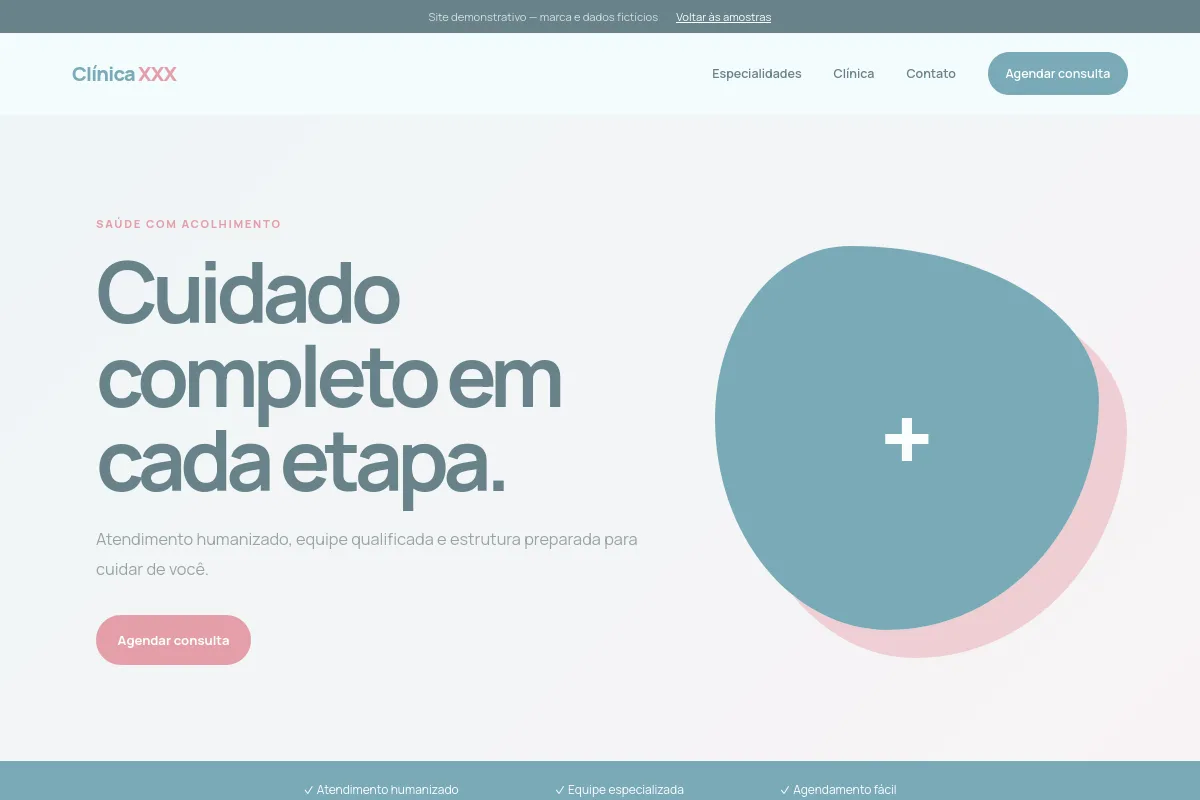
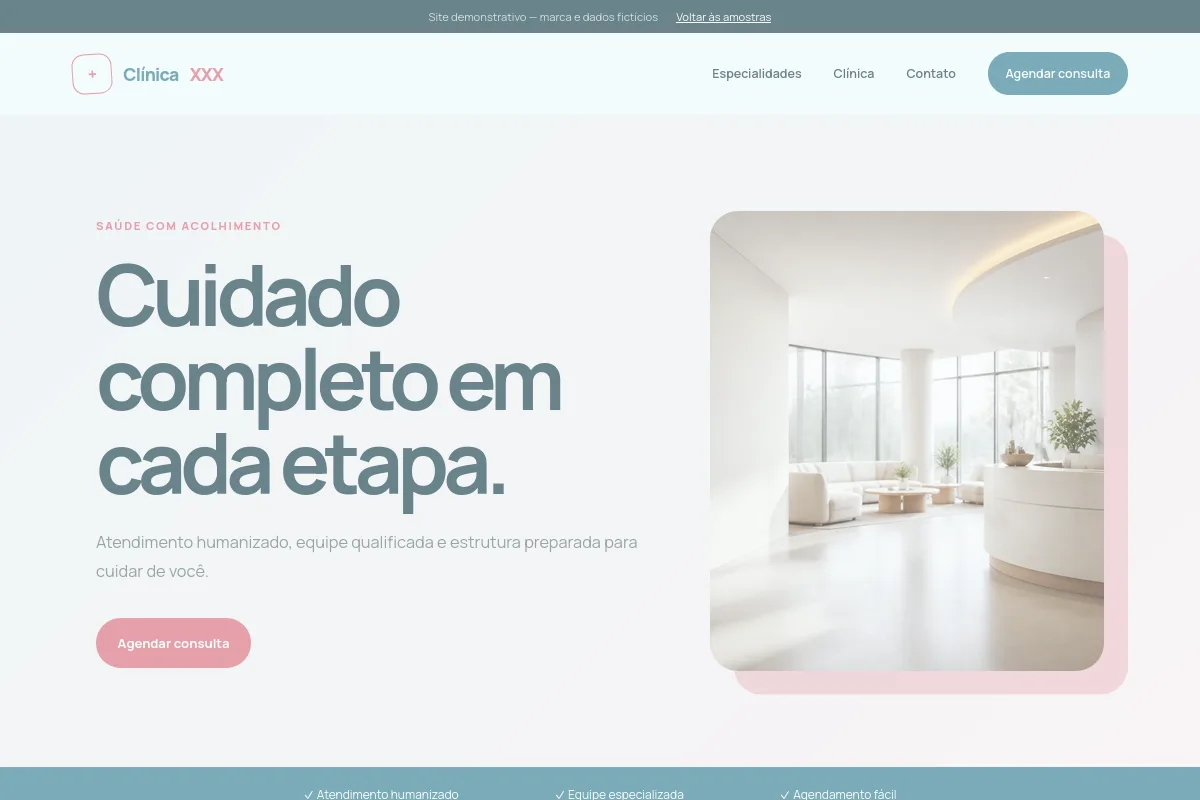
feat: add rich imagery and custom demo branding

diff --git a/src/css/demo-negocio.css b/src/css/demo-negocio.css
@@ -6,7 +6,8 @@ a { color: inherit; text-decoration: none; }
 .aviso { padding: .55rem 5vw; color: rgba(255,255,255,.75); background: var(--tinta); text-align: center; font-size: .7rem; }
 .aviso a { color: white; margin-left: 1rem; text-decoration: underline; }
 header { height: 82px; padding: 0 6vw; display: flex; align-items: center; justify-content: space-between; background: var(--claro); }
-.logo { color: var(--cor); font-size: 1.25rem; font-weight: 800; letter-spacing: -.04em; }
+.logo { display: inline-flex; align-items: center; gap: .7rem; color: var(--cor); font-size: 1.1rem; font-weight: 800; letter-spacing: -.04em; }
+.logo[data-mark]::before { content: attr(data-mark); width: 38px; height: 38px; display: grid; place-items: center; border: 1px solid var(--acao); border-radius: 12px; color: var(--acao); font-size: 1rem; transform: rotate(-4deg); }
 .logo span { color: var(--acao); }
 nav { display: flex; align-items: center; gap: 2rem; font-size: .78rem; font-weight: 600; }
 nav .nav-acao { padding: .8rem 1.1rem; color: white; background: var(--cor); border-radius: 999px; }
@@ -16,8 +17,9 @@ nav .nav-acao { padding: .8rem 1.1rem; color: white; background: var(--cor); bor
 h1 { max-width: 800px; margin: 1rem 0 1.5rem; color: var(--tinta); font-size: clamp(3rem, 7vw, 6rem); line-height: 1; letter-spacing: -.07em; }
 .hero p { max-width: 560px; color: var(--suave); font-size: 1.02rem; line-height: 1.8; }
 .botao { display: inline-block; margin-top: 2rem; padding: 1rem 1.35rem; color: white; background: var(--acao); border-radius: 999px; font-size: .82rem; font-weight: 700; }
-.hero__arte { position: relative; min-height: 380px; display: grid; place-items: center; }
-.forma { width: min(32vw, 390px); aspect-ratio: 1; display: grid; place-items: center; color: white; background: var(--cor); border-radius: 35% 65% 55% 45% / 45% 40% 60% 55%; box-shadow: 28px 28px 0 color-mix(in srgb, var(--acao) 45%, transparent); font-size: clamp(3rem, 8vw, 6rem); font-weight: 800; }
+.hero__foto { height: 460px; overflow: hidden; border-radius: 28px; box-shadow: 24px 24px 0 color-mix(in srgb, var(--acao) 35%, transparent); }
+.hero__foto img { width: 100%; height: 100%; display: block; object-fit: cover; transition: transform .7s ease; }
+.hero__foto:hover img { transform: scale(1.035); }
 .faixa { padding: 1.2rem 8vw; display: flex; justify-content: center; gap: 8vw; color: white; background: var(--cor); font-size: .75rem; }
 .conteudo { padding: 7rem 8vw; text-align: center; }
 h2 { max-width: 760px; margin: .8rem auto 3rem; color: var(--tinta); font-size: clamp(2.2rem, 5vw, 4rem); line-height: 1.08; letter-spacing: -.055em; }
@@ -38,12 +40,12 @@ body.tema-mercado { --cor: #176b43; --acao: #f1a62c; --claro: #fffaf0; --tinta: 
 body.tema-clinica { --cor: #367d91; --acao: #dd6c7b; --claro: #f3fbfc; --tinta: #193e49; }
 body.tema-restaurante { --cor: #7a302c; --acao: #d99d55; --claro: #fff8ee; --tinta: #3f1c19; }
 body.tema-academia { --cor: #1e293b; --acao: #e9ff4f; --claro: #f5f6f2; --tinta: #101827; }
-body.tema-academia .botao, body.tema-academia .forma { color: #101827; }
+body.tema-academia .botao { color: #101827; }
 body.tema-imobiliaria { --cor: #1d4d6b; --acao: #d49b58; --claro: #f4f7f8; --tinta: #102d40; }
 @media (max-width: 800px) {
   header { height: 72px; padding: 0 1.25rem; }.menu { display: block; }
   nav { display: none; position: absolute; z-index: 5; top: 105px; left: 0; right: 0; padding: 2rem; flex-direction: column; background: var(--claro); } nav.aberto { display: flex; }
-  .hero { min-height: auto; padding: 5rem 1.5rem; grid-template-columns: 1fr; }.hero__arte { min-height: 300px; }.forma { width: 250px; }
+  .hero { min-height: auto; padding: 5rem 1.5rem; grid-template-columns: 1fr; }.hero__foto { width: 100%; height: 300px; box-shadow: 12px 12px 0 color-mix(in srgb, var(--acao) 35%, transparent); }
   .faixa { overflow-x: auto; justify-content: flex-start; white-space: nowrap; }
   .conteudo, .destaque { padding: 5rem 1.5rem; }.grade, .destaque { grid-template-columns: 1fr; }
   .destaque__arte { max-width: 460px; width: 100%; }.cta { padding: 4rem 1.5rem; align-items: flex-start; flex-direction: column; }

diff --git a/src/css/demo-petshop.css b/src/css/demo-petshop.css
@@ -6,7 +6,8 @@ a { color: inherit; text-decoration: none; }
 .aviso { padding: .55rem 5vw; color: #d0e8e1; background: #11352d; text-align: center; font-size: .7rem; }
 .aviso a { color: #ffb7a4; margin-left: 1rem; }
 header { height: 86px; padding: 0 6vw; display: flex; align-items: center; justify-content: space-between; }
-.logo { color: var(--verde); font-size: 1.25rem; font-weight: 800; letter-spacing: -.04em; }
+.logo { display: inline-flex; align-items: center; gap: .7rem; color: var(--verde); font-size: 1.1rem; font-weight: 800; letter-spacing: -.04em; }
+.logo[data-mark]::before { content: attr(data-mark); width: 38px; height: 38px; display: grid; place-items: center; border: 1px solid var(--laranja); border-radius: 50% 50% 45% 45%; color: var(--laranja); font-size: 1rem; transform: rotate(5deg); }
 .logo span { color: var(--laranja); }
 nav { display: flex; gap: 2rem; align-items: center; font-size: .78rem; font-weight: 600; }
 nav a:hover { color: var(--laranja); }
@@ -18,12 +19,9 @@ h1 { margin: 1rem 0 1.5rem; color: var(--verde); font-size: clamp(3rem, 7vw, 6re
 h1 em { color: var(--laranja); font-style: normal; }
 .hero__texto p { max-width: 520px; color: #5f7972; font-size: 1.05rem; line-height: 1.75; }
 .botao { display: inline-block; margin-top: 2rem; padding: 1rem 1.4rem; color: white; background: var(--laranja); border-radius: 999px; font-size: .82rem; font-weight: 700; box-shadow: 0 10px 25px rgba(238,121,91,.2); }
-.hero__arte { position: relative; min-height: 430px; display: grid; place-items: center; }
-.sol { position: absolute; width: min(34vw, 420px); aspect-ratio: 1; border-radius: 50%; background: #f8c45f; }
-.pet { z-index: 1; width: min(28vw, 340px); aspect-ratio: .85; display: grid; place-items: center; border-radius: 48% 48% 42% 42%; color: var(--verde); background: #fff1cf; border: 12px solid white; box-shadow: 0 25px 60px rgba(25,72,62,.15); }
-.pet span { font-size: clamp(3rem, 8vw, 6rem); transform: translateY(15%); }
-.pata { position: absolute; color: var(--laranja); font-size: 3rem; font-style: normal; opacity: .4; }
-.pata--1 { top: 5%; left: 5%; }.pata--2 { right: 0; bottom: 5%; }
+.hero__foto { height: 470px; overflow: hidden; border-radius: 48% 28% 46% 30%; border: 10px solid white; box-shadow: 24px 24px 0 #f8c45f; }
+.hero__foto img { width: 100%; height: 100%; display: block; object-fit: cover; transition: transform .7s ease; }
+.hero__foto:hover img { transform: scale(1.035); }
 .beneficios { padding: 1.3rem 8vw; display: flex; justify-content: center; gap: 8vw; color: white; background: var(--verde); font-size: .78rem; }
 .servicos { padding: 8rem 8vw; text-align: center; }
 h2 { margin: .8rem auto 3rem; max-width: 750px; color: var(--verde); font-size: clamp(2.2rem, 5vw, 4rem); line-height: 1.08; letter-spacing: -.055em; }
@@ -53,7 +51,7 @@ footer { padding: 2rem 6vw; display: flex; justify-content: space-between; align
   nav { display: none; position: absolute; z-index: 3; top: 107px; left: 0; right: 0; padding: 2rem; flex-direction: column; background: var(--creme); }
   nav.aberto { display: flex; }
   .hero { min-height: auto; padding: 5rem 1.5rem; grid-template-columns: 1fr; }
-  .hero__arte { min-height: 330px; }.sol { width: 300px; }.pet { width: 240px; }
+  .hero__foto { width: 100%; height: 320px; border-width: 7px; box-shadow: 12px 12px 0 #f8c45f; }
   .beneficios { overflow-x: auto; justify-content: flex-start; white-space: nowrap; }
   .servicos, .sobre { padding: 5rem 1.5rem; }
   .servicos__grade, .sobre { grid-template-columns: 1fr; }

diff --git a/demos/restaurante.html b/demos/restaurante.html
@@ -6,8 +6,8 @@
   <link rel="stylesheet" href="../src/css/demo-negocio.css" /><link rel="stylesheet" href="../src/css/transicoes.css" />
 </head><body class="tema-restaurante">
   <div class="aviso">Site demonstrativo — marca e dados fictícios <a href="../amostras.html">Voltar às amostras</a></div>
-  <header><a class="logo" href="#inicio">Restaurante <span>XXX</span></a><button class="menu" aria-label="Abrir menu" aria-expanded="false">Menu</button><nav><a href="#cardapio">Cardápio</a><a href="#experiencia">Experiência</a><a href="#contato">Contato</a><a class="nav-acao" href="#contato">Reservar mesa</a></nav></header>
-  <main><section class="hero" id="inicio"><div><span class="etiqueta">Sabores que aproximam</span><h1>Boa comida merece tempo e companhia.</h1><p>Ingredientes selecionados, receitas autorais e ambiente preparado para encontros memoráveis.</p><a class="botao" href="#cardapio">Explorar cardápio</a></div><div class="hero__arte"><div class="forma">✦</div></div></section>
+  <header><a class="logo" data-mark="R" href="#inicio">Restaurante <span>XXX</span></a><button class="menu" aria-label="Abrir menu" aria-expanded="false">Menu</button><nav><a href="#cardapio">Cardápio</a><a href="#experiencia">Experiência</a><a href="#contato">Contato</a><a class="nav-acao" href="#contato">Reservar mesa</a></nav></header>
+  <main><section class="hero" id="inicio"><div><span class="etiqueta">Sabores que aproximam</span><h1>Boa comida merece tempo e companhia.</h1><p>Ingredientes selecionados, receitas autorais e ambiente preparado para encontros memoráveis.</p><a class="botao" href="#cardapio">Explorar cardápio</a></div><div class="hero__foto"><img src="../public/assets/images/samples/hero-restaurante.webp" alt="Prato elegante servido em restaurante contemporâneo" /></div></section>
   <section class="faixa"><span>✓ Ingredientes frescos</span><span>✓ Reservas on-line</span><span>✓ Ambiente acolhedor</span></section>
   <section class="conteudo" id="cardapio"><span class="etiqueta">Destaques do cardápio</span><h2>Receitas feitas para compartilhar</h2><div class="grade"><article><b>01</b><h3>Entradas</h3><p>Combinações leves para começar experiência à mesa.</p></article><article><b>02</b><h3>Pratos principais</h3><p>Receitas autorais com ingredientes da estação.</p></article><article><b>03</b><h3>Sobremesas</h3><p>Finalizações delicadas preparadas diariamente.</p></article></div></section>
   <section class="destaque" id="experiencia"><div class="destaque__arte">XXX</div><div><span class="etiqueta">À mesa</span><h2>Ambiente simples, sabor marcante.</h2><p>Serviço atencioso e cozinha feita com cuidado para almoço, jantar ou celebração.</p></div></section>

diff --git a/demos/imobiliaria.html b/demos/imobiliaria.html
@@ -6,8 +6,8 @@
   <link rel="stylesheet" href="../src/css/demo-negocio.css" /><link rel="stylesheet" href="../src/css/transicoes.css" />
 </head><body class="tema-imobiliaria">
   <div class="aviso">Site demonstrativo — marca e dados fictícios <a href="../amostras.html">Voltar às amostras</a></div>
-  <header><a class="logo" href="#inicio">Imobiliária <span>XXX</span></a><button class="menu" aria-label="Abrir menu" aria-expanded="false">Menu</button><nav><a href="#imoveis">Imóveis</a><a href="#atendimento">Atendimento</a><a href="#contato">Contato</a><a class="nav-acao" href="#imoveis">Buscar imóvel</a></nav></header>
-  <main><section class="hero" id="inicio"><div><span class="etiqueta">Seu próximo endereço</span><h1>Encontre espaço para viver novos planos.</h1><p>Seleção de imóveis, atendimento próximo e informação clara em cada negociação.</p><a class="botao" href="#imoveis">Ver imóveis</a></div><div class="hero__arte"><div class="forma">⌂</div></div></section>
+  <header><a class="logo" data-mark="I" href="#inicio">Imobiliária <span>XXX</span></a><button class="menu" aria-label="Abrir menu" aria-expanded="false">Menu</button><nav><a href="#imoveis">Imóveis</a><a href="#atendimento">Atendimento</a><a href="#contato">Contato</a><a class="nav-acao" href="#imoveis">Buscar imóvel</a></nav></header>
+  <main><section class="hero" id="inicio"><div><span class="etiqueta">Seu próximo endereço</span><h1>Encontre espaço para viver novos planos.</h1><p>Seleção de imóveis, atendimento próximo e informação clara em cada negociação.</p><a class="botao" href="#imoveis">Ver imóveis</a></div><div class="hero__foto"><img src="../public/assets/images/samples/hero-imobiliaria.webp" alt="Casa contemporânea iluminada ao entardecer" /></div></section>
   <section class="faixa"><span>✓ Imóveis selecionados</span><span>✓ Visitas agendadas</span><span>✓ Suporte na negociação</span></section>
   <section class="conteudo" id="imoveis"><span class="etiqueta">Encontre seu imóvel</span><h2>Opções para diferentes momentos</h2><div class="grade"><article><b>01</b><h3>Comprar</h3><p>Casas e apartamentos para morar ou investir.</p></article><article><b>02</b><h3>Alugar</h3><p>Busca prática com critérios adequados à sua rotina.</p></article><article><b>03</b><h3>Anunciar</h3><p>Apresentação cuidadosa e acompanhamento do processo.</p></article></div></section>
   <section class="destaque" id="atendimento"><div class="destaque__arte">XXX</div><div><span class="etiqueta">Atendimento consultivo</span><h2>Decisões importantes pedem clareza.</h2><p>Acompanhamento próximo desde primeira busca até assinatura, com transparência em cada etapa.</p></div></section>

diff --git a/demos/clinica.html b/demos/clinica.html
@@ -6,8 +6,8 @@
   <link rel="stylesheet" href="../src/css/demo-negocio.css" /><link rel="stylesheet" href="../src/css/transicoes.css" />
 </head><body class="tema-clinica">
   <div class="aviso">Site demonstrativo — marca e dados fictícios <a href="../amostras.html">Voltar às amostras</a></div>
-  <header><a class="logo" href="#inicio">Clínica <span>XXX</span></a><button class="menu" aria-label="Abrir menu" aria-expanded="false">Menu</button><nav><a href="#especialidades">Especialidades</a><a href="#cuidado">Clínica</a><a href="#contato">Contato</a><a class="nav-acao" href="#contato">Agendar consulta</a></nav></header>
-  <main><section class="hero" id="inicio"><div><span class="etiqueta">Saúde com acolhimento</span><h1>Cuidado completo em cada etapa.</h1><p>Atendimento humanizado, equipe qualificada e estrutura preparada para cuidar de você.</p><a class="botao" href="#contato">Agendar consulta</a></div><div class="hero__arte"><div class="forma">+</div></div></section>
+  <header><a class="logo" data-mark="+" href="#inicio">Clínica <span>XXX</span></a><button class="menu" aria-label="Abrir menu" aria-expanded="false">Menu</button><nav><a href="#especialidades">Especialidades</a><a href="#cuidado">Clínica</a><a href="#contato">Contato</a><a class="nav-acao" href="#contato">Agendar consulta</a></nav></header>
+  <main><section class="hero" id="inicio"><div><span class="etiqueta">Saúde com acolhimento</span><h1>Cuidado completo em cada etapa.</h1><p>Atendimento humanizado, equipe qualificada e estrutura preparada para cuidar de você.</p><a class="botao" href="#contato">Agendar consulta</a></div><div class="hero__foto"><img src="../public/assets/images/samples/hero-clinica.webp" alt="Recepção moderna e acolhedora de clínica" /></div></section>
   <section class="faixa"><span>✓ Atendimento humanizado</span><span>✓ Equipe especializada</span><span>✓ Agendamento fácil</span></section>
   <section class="conteudo" id="especialidades"><span class="etiqueta">Especialidades</span><h2>Saúde integrada em um só lugar</h2><div class="grade"><article><b>01</b><h3>Clínica geral</h3><p>Acompanhamento preventivo e avaliação individualizada.</p></article><article><b>02</b><h3>Exames</h3><p>Praticidade para consultas e procedimentos de rotina.</p></article><article><b>03</b><h3>Teleatendimento</h3><p>Orientação remota quando modalidade for adequada.</p></article></div></section>
   <section class="destaque" id="cuidado"><div class="destaque__arte">XXX</div><div><span class="etiqueta">Nossa prioridade</span><h2>Escuta, clareza e respeito.</h2><p>Cada pessoa recebe atenção cuidadosa, informações acessíveis e acompanhamento responsável.</p></div></section>

diff --git a/demos/academia.html b/demos/academia.html
@@ -6,8 +6,8 @@
   <link rel="stylesheet" href="../src/css/demo-negocio.css" /><link rel="stylesheet" href="../src/css/transicoes.css" />
 </head><body class="tema-academia">
   <div class="aviso">Site demonstrativo — marca e dados fictícios <a href="../amostras.html">Voltar às amostras</a></div>
-  <header><a class="logo" href="#inicio">Academia <span>XXX</span></a><button class="menu" aria-label="Abrir menu" aria-expanded="false">Menu</button><nav><a href="#modalidades">Modalidades</a><a href="#estrutura">Estrutura</a><a href="#contato">Contato</a><a class="nav-acao" href="#contato">Aula experimental</a></nav></header>
-  <main><section class="hero" id="inicio"><div><span class="etiqueta">Movimento transforma</span><h1>Treine com propósito. Evolua no seu ritmo.</h1><p>Estrutura completa, orientação profissional e planos para diferentes objetivos.</p><a class="botao" href="#contato">Agendar aula</a></div><div class="hero__arte"><div class="forma">X</div></div></section>
+  <header><a class="logo" data-mark="A" href="#inicio">Academia <span>XXX</span></a><button class="menu" aria-label="Abrir menu" aria-expanded="false">Menu</button><nav><a href="#modalidades">Modalidades</a><a href="#estrutura">Estrutura</a><a href="#contato">Contato</a><a class="nav-acao" href="#contato">Aula experimental</a></nav></header>
+  <main><section class="hero" id="inicio"><div><span class="etiqueta">Movimento transforma</span><h1>Treine com propósito. Evolua no seu ritmo.</h1><p>Estrutura completa, orientação profissional e planos para diferentes objetivos.</p><a class="botao" href="#contato">Agendar aula</a></div><div class="hero__foto"><img src="../public/assets/images/samples/hero-academia.webp" alt="Academia moderna com equipamentos profissionais" /></div></section>
   <section class="faixa"><span>✓ Equipamentos modernos</span><span>✓ Profissionais presentes</span><span>✓ Planos flexíveis</span></section>
   <section class="conteudo" id="modalidades"><span class="etiqueta">Modalidades</span><h2>Um treino para cada objetivo</h2><div class="grade"><article><b>01</b><h3>Musculação</h3><p>Treinos acompanhados para força e condicionamento.</p></article><article><b>02</b><h3>Funcional</h3><p>Aulas dinâmicas para mobilidade, potência e resistência.</p></article><article><b>03</b><h3>Cardio</h3><p>Equipamentos e atividades para desenvolver fôlego.</p></article></div></section>
   <section class="destaque" id="estrutura"><div class="destaque__arte">XXX</div><div><span class="etiqueta">Estrutura</span><h2>Espaço para sua melhor versão.</h2><p>Ambiente amplo, organizado e preparado para treino seguro em todos os níveis.</p></div></section>

diff --git a/demos/mercado.html b/demos/mercado.html
@@ -6,8 +6,8 @@
   <link rel="stylesheet" href="../src/css/demo-negocio.css" /><link rel="stylesheet" href="../src/css/transicoes.css" />
 </head><body class="tema-mercado">
   <div class="aviso">Site demonstrativo — marca e dados fictícios <a href="../amostras.html">Voltar às amostras</a></div>
-  <header><a class="logo" href="#inicio">Mercado <span>XXX</span></a><button class="menu" aria-label="Abrir menu" aria-expanded="false">Menu</button><nav><a href="#ofertas">Ofertas</a><a href="#qualidade">Qualidade</a><a href="#contato">Contato</a><a class="nav-acao" href="#ofertas">Ver ofertas</a></nav></header>
-  <main><section class="hero" id="inicio"><div><span class="etiqueta">Economia perto de você</span><h1>Preço justo e qualidade todo dia.</h1><p>Produtos frescos, variedade e ofertas pensadas para facilitar compras da sua família.</p><a class="botao" href="#ofertas">Conferir ofertas</a></div><div class="hero__arte"><div class="forma">$</div></div></section>
+  <header><a class="logo" data-mark="M" href="#inicio">Mercado <span>XXX</span></a><button class="menu" aria-label="Abrir menu" aria-expanded="false">Menu</button><nav><a href="#ofertas">Ofertas</a><a href="#qualidade">Qualidade</a><a href="#contato">Contato</a><a class="nav-acao" href="#ofertas">Ver ofertas</a></nav></header>
+  <main><section class="hero" id="inicio"><div><span class="etiqueta">Economia perto de você</span><h1>Preço justo e qualidade todo dia.</h1><p>Produtos frescos, variedade e ofertas pensadas para facilitar compras da sua família.</p><a class="botao" href="#ofertas">Conferir ofertas</a></div><div class="hero__foto"><img src="../public/assets/images/samples/hero-mercado.webp" alt="Hortifruti organizado em mercado moderno" /></div></section>
   <section class="faixa"><span>✓ Hortifruti selecionado</span><span>✓ Entrega no bairro</span><span>✓ Ofertas semanais</span></section>
   <section class="conteudo" id="ofertas"><span class="etiqueta">Destaques da semana</span><h2>Economia em cada corredor</h2><div class="grade"><article><b>01</b><h3>Hortifruti</h3><p>Frutas, legumes e verduras selecionados diariamente.</p></article><article><b>02</b><h3>Mercearia</h3><p>Itens essenciais e marcas para diferentes orçamentos.</p></article><article><b>03</b><h3>Entrega rápida</h3><p>Compras entregues com praticidade na região atendida.</p></article></div></section>
   <section class="destaque" id="qualidade"><div class="destaque__arte">XXX</div><div><span class="etiqueta">Compra tranquila</span><h2>Seu mercado de confiança.</h2><p>Ambiente organizado, equipe próxima e seleção cuidadosa de produtos para rotina mais simples.</p></div></section>

diff --git a/demos/petshop.html b/demos/petshop.html
@@ -14,7 +14,7 @@
 <body>
   <div class="aviso">Site demonstrativo — dados fictícios <a href="../amostras.html">Voltar às amostras</a></div>
   <header>
-    <a class="logo" href="#inicio">Pet Shop <span>XXX</span></a>
+    <a class="logo" data-mark="P" href="#inicio">Pet Shop <span>XXX</span></a>
     <button class="menu" aria-label="Abrir menu" aria-expanded="false">Menu</button>
     <nav><a href="#servicos">Serviços</a><a href="#sobre">Sobre</a><a href="#depoimentos">Depoimentos</a><a class="agendar" href="#contato">Agendar horário</a></nav>
   </header>
@@ -22,7 +22,7 @@
   <main>
     <section class="hero" id="inicio">
       <div class="hero__texto"><span class="tag">Cuidado que faz bem</span><h1>Seu pet feliz,<br />saudável e <em>radiante.</em></h1><p>Banho, tosa e cuidados especiais feitos por quem entende que cada pet é único.</p><a class="botao" href="#contato">Agendar atendimento</a></div>
-      <div class="hero__arte" aria-hidden="true"><div class="sol"></div><div class="pet"><span>•ᴥ•</span></div><i class="pata pata--1">●</i><i class="pata pata--2">●</i></div>
+      <div class="hero__foto"><img src="../public/assets/images/samples/hero-petshop.webp" alt="Cachorro feliz em ambiente moderno de pet shop" /></div>
     </section>
 
     <section class="beneficios"><span>✓ Profissionais especializados</span><span>✓ Produtos selecionados</span><span>✓ Ambiente seguro</span></section>

diff --git a/README.md b/README.md
@@ -16,6 +16,7 @@ The system is a static personal portfolio featuring a professional introduction,
 - Project-specific local setup guides
 - Business website sample gallery with seven responsive segment demos
 - Animated preview images generated from the actual demo pages
+- Segment-specific visual identities and original photorealistic hero images
 - Layout request form that prepares a Gmail message with visitor details
 - Animated transitions between internal pages with reduced-motion support
 - Professional profile and skills sections
